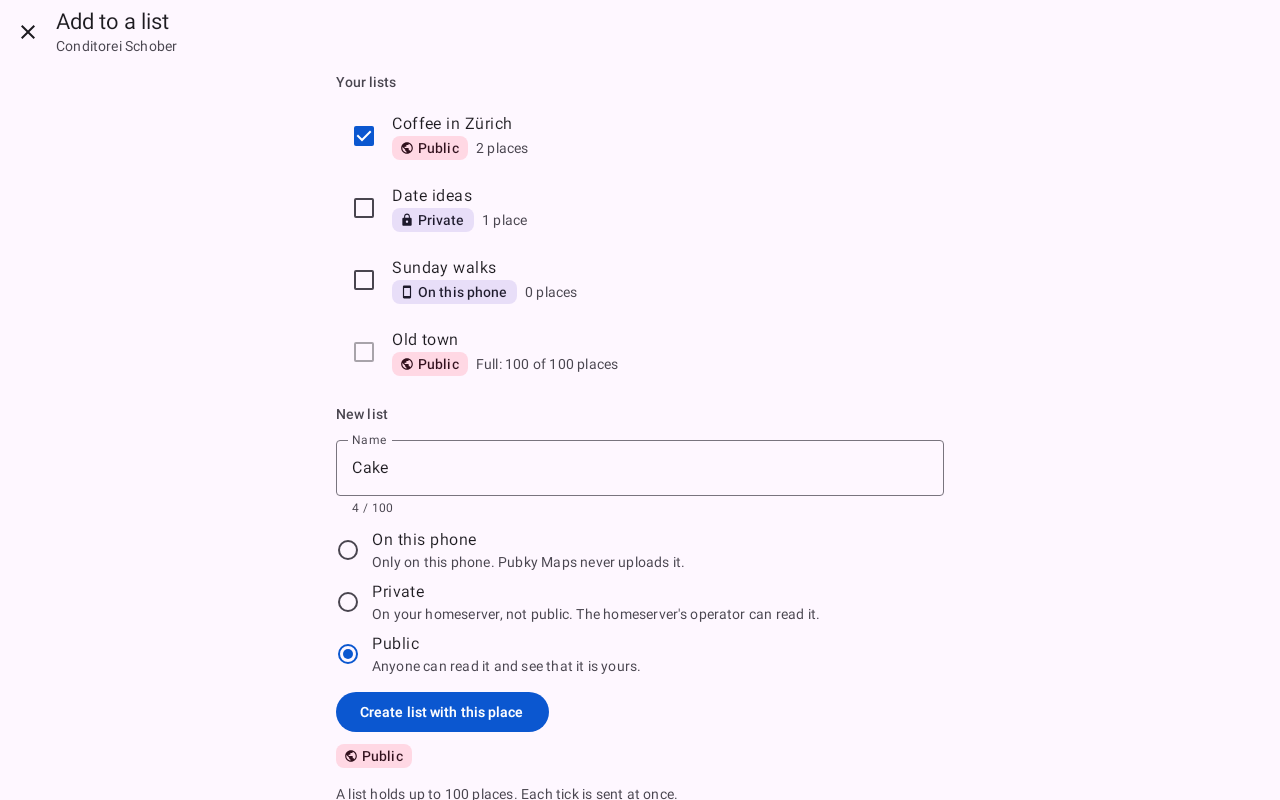
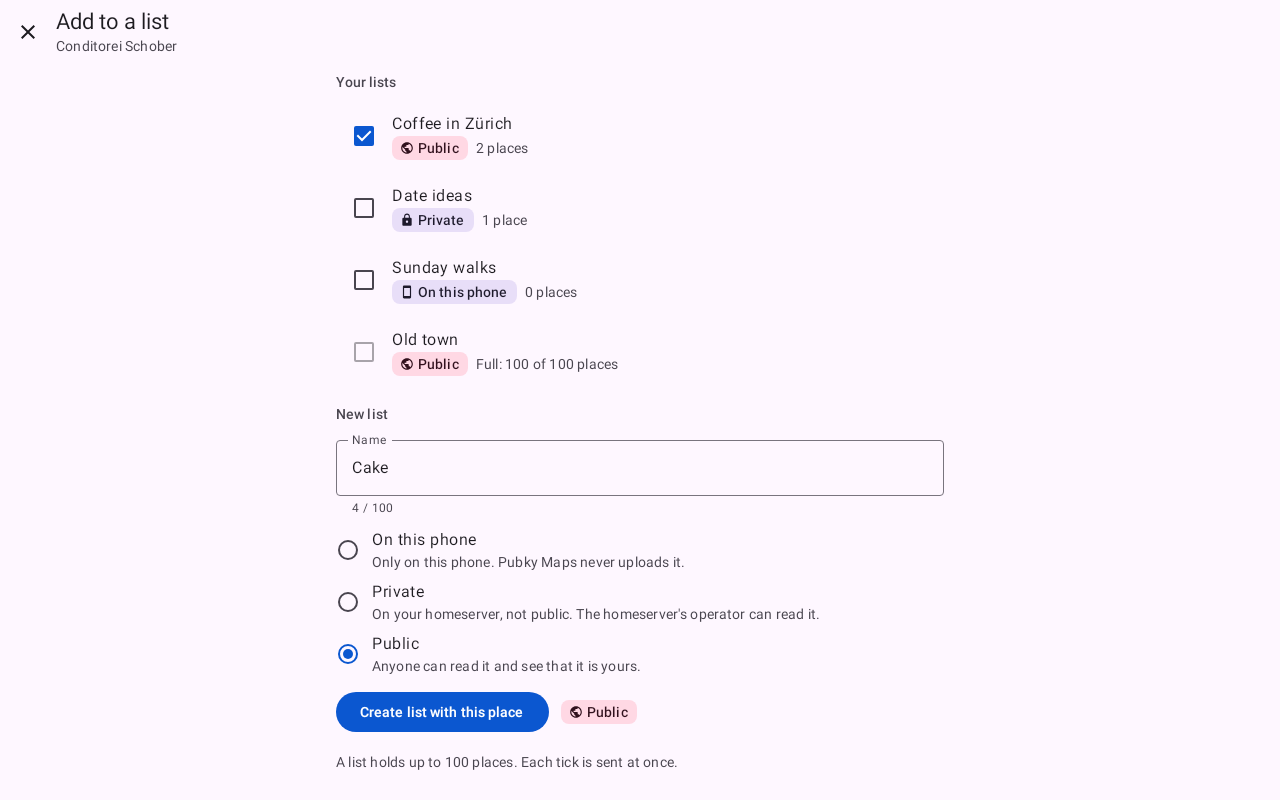
Saved places show their name, not an OpenStreetMap id (#17)
* fix(saved): show a named place by its name alone; the list's badge beside its button

The Saved page showed "OpenStreetMap node 270803095" or the opening link under
every named place and list entry. A named place now shows its name and where it
is kept only; a place without a name keeps its link in words as its title.

The badge that says where a new list goes stood alone under "Create list with
this place"; it now sits beside the button (under it when large text leaves no
room).

* test(saved): native graphics for the bounds check; a pending place still says so

* test(saved): reference screenshots of the Saved and list pages

Changed region(s): [[0.25, 0.9062, 0.5312, 1.0], [0.4375, 0.875, 0.5, 0.9062]]

diff --git a/androidApp/src/test/kotlin/to/pubky/maps/android/SavedAndListsTest.kt b/androidApp/src/test/kotlin/to/pubky/maps/android/SavedAndListsTest.kt
@@ -1,0 +1,115 @@
+package to.pubky.maps.android
+
+import androidx.compose.ui.test.assertCountEquals
+import androidx.compose.ui.test.hasClickAction
+import androidx.compose.ui.test.hasText
+import androidx.compose.ui.test.junit4.createComposeRule
+import androidx.compose.ui.test.onAllNodesWithText
+import androidx.compose.ui.test.onNodeWithText
+import androidx.compose.ui.test.performClick
+import org.junit.Assert.assertTrue
+import org.junit.Rule
+import org.junit.Test
+import org.junit.runner.RunWith
+import org.robolectric.RobolectricTestRunner
+import org.robolectric.annotation.Config
+import org.robolectric.annotation.GraphicsMode
+import to.pubky.maps.ui.PubkyMapsTheme
+import to.pubky.maps.write.Kept
+import to.pubky.maps.write.ListChoice
+import to.pubky.maps.write.ListPage
+import to.pubky.maps.write.ListPageState
+import to.pubky.maps.write.OwnList
+import to.pubky.maps.write.SavedRow
+import to.pubky.maps.write.SavedScreen
+import to.pubky.maps.write.SavedScreenState
+
+/**
+ * The Saved page names places the way the user knows them (a named place shows no OpenStreetMap id
+ * or link), and the list page shows where a new list goes beside the button that makes it.
+ */
+@RunWith(RobolectricTestRunner::class)
+@Config(qualifiers = "w412dp-h915dp")
+@GraphicsMode(GraphicsMode.Mode.NATIVE)
+class SavedAndListsTest {
+    @get:Rule
+    val compose = createComposeRule()
+
+    private val osm = "https://www.openstreetmap.org/node/270803095"
+    private val lindenhof = "https://maps.app.goo.gl/x1"
+
+    @Test
+    fun aNamedPlaceShowsItsNameWithoutItsLink() {
+        compose.setContent {
+            PubkyMapsTheme(darkTheme = false) {
+                SavedScreen(
+                    state =
+                        SavedScreenState(
+                            places =
+                                listOf(
+                                    SavedRow(osm, "Conditorei Schober", Kept.Private),
+                                    SavedRow(lindenhof, "Lindenhof", Kept.Private, pending = true),
+                                    SavedRow("geo:47.36667,8.55", null, Kept.Phone),
+                                ),
+                            lists =
+                                listOf(
+                                    OwnList(
+                                        "phone:1",
+                                        Kept.Phone,
+                                        "Coffee in Zürich",
+                                        listOf(osm, lindenhof),
+                                        names = mapOf(lindenhof to "Lindenhof"),
+                                    ),
+                                ),
+                            names = mapOf(osm to "Conditorei Schober"),
+                            signedIn = true,
+                        ),
+                    onOpen = {},
+                    onBack = {},
+                )
+            }
+        }
+        compose.onNodeWithText("Conditorei Schober").assertExists()
+        // A place without a name is still told by its link.
+        compose.onNodeWithText("47.36667, 8.55").assertExists()
+        // One not sent yet still says so.
+        compose.onNodeWithText("Not sent yet", substring = true).assertExists()
+        compose.onNodeWithText("Coffee in Zürich").performClick()
+        // The saved row and the list entry both have the name; neither shows the OpenStreetMap id or the link.
+        compose.onAllNodesWithText("Conditorei Schober").assertCountEquals(2)
+        compose.onAllNodesWithText("Lindenhof").assertCountEquals(2)
+        compose.onAllNodesWithText("OpenStreetMap node 270803095").assertCountEquals(0)
+        compose.onAllNodesWithText("maps.app.goo.gl/x1").assertCountEquals(0)
+    }
+
+    @Test
+    fun whereANewListGoesShowsBesideItsButton() {
+        compose.setContent {
+            PubkyMapsTheme(darkTheme = false) {
+                ListPage(
+                    state =
+                        ListPageState(
+                            placeName = "Conditorei Schober",
+                            lists = listOf(ListChoice(OwnList("phone:1", Kept.Phone, "Sunday walks", emptyList()), holds = false)),
+                            newName = "Cake",
+                            newKept = Kept.Public,
+                            keptChoices = listOf(Kept.Phone, Kept.Public),
+                        ),
+                    onToggle = {},
+                    onNewNameChange = {},
+                    onNewKeptChange = {},
+                    onCreate = {},
+                    onClose = {},
+                )
+            }
+        }
+        val button = compose.onNode(hasText("Create list with this place") and hasClickAction()).fetchSemanticsNode().boundsInRoot
+        // "Public" is also the radio button's label; the badge is the one on the button's line, after it.
+        val beside =
+            compose.onAllNodesWithText("Public", useUnmergedTree = true).fetchSemanticsNodes().any { node ->
+                val badge = node.boundsInRoot
+                badge.left >= button.right && badge.top >= button.top && badge.bottom <= button.bottom
+            }
+        assertTrue("the Public badge is not beside Create list with this place ($button)", beside)
+    }
+}

diff --git a/shared/src/commonMain/kotlin/to/pubky/maps/write/SavedScreen.kt b/shared/src/commonMain/kotlin/to/pubky/maps/write/SavedScreen.kt
@@ -117,16 +117,6 @@ fun SavedScreen(
                             val name = list.names[place] ?: state.names[place]
                             ListItem(
                                 headlineContent = { Text(name ?: placeText(place), maxLines = 1, overflow = TextOverflow.Ellipsis) },
-                                supportingContent =
-                                    name?.let {
-                                        {
-                                            Text(
-                                                placeText(place),
-                                                maxLines = 1,
-                                                overflow = TextOverflow.Ellipsis,
-                                            )
-                                        }
-                                    },
                                 modifier = Modifier.padding(start = 40.dp).clickable { onOpen(place) },
                             )
                         }
@@ -152,17 +142,7 @@ private fun PlaceRow(
         supportingContent = {
             Row(horizontalArrangement = Arrangement.spacedBy(8.dp), verticalAlignment = Alignment.CenterVertically) {
                 KeptBadge(row.kept)
-                Text(
-                    if (row.pending) {
-                        "Not sent yet"
-                    } else if (row.name != null) {
-                        placeText(row.place)
-                    } else {
-                        ""
-                    },
-                    maxLines = 1,
-                    overflow = TextOverflow.Ellipsis,
-                )
+                if (row.pending) Text("Not sent yet", maxLines = 1, overflow = TextOverflow.Ellipsis)
             }
         },
         leadingContent = { Icon(WriteIcons.Bookmark, contentDescription = null, tint = MaterialTheme.colorScheme.primary) },
@@ -190,7 +170,11 @@ private fun Hint(text: String) {
     )
 }
 
-/** A place's link in words, for one whose name is not known: "OpenStreetMap node 270803095", "47.37687, 8.54169". */
+/**
+ * A place's link in words, shown only for one whose name is not known: "OpenStreetMap node 270803095",
+ * "47.37687, 8.54169". A named place shows its name alone, as map apps' saved lists do: the link is
+ * the app's reference, not something the user reads.
+ */
 internal fun placeText(place: String): String {
     val osm = Regex("^https://www\\.openstreetmap\\.org/(node|way|relation)/(\\d+)$").matchEntire(place)
     if (osm != null) return "OpenStreetMap ${osm.groupValues[1]} ${osm.groupValues[2]}"

diff --git a/shared/src/commonMain/kotlin/to/pubky/maps/write/ListPage.kt b/shared/src/commonMain/kotlin/to/pubky/maps/write/ListPage.kt
@@ -2,6 +2,8 @@ package to.pubky.maps.write
 
 import androidx.compose.foundation.layout.Arrangement
 import androidx.compose.foundation.layout.Column
+import androidx.compose.foundation.layout.ExperimentalLayoutApi
+import androidx.compose.foundation.layout.FlowRow
 import androidx.compose.foundation.layout.Row
 import androidx.compose.foundation.layout.fillMaxWidth
 import androidx.compose.foundation.layout.padding
@@ -54,6 +56,7 @@ data class ListPageState(
  * Add a place to one of the user's lists, or take it out (each tick is sent at once), or make a new
  * list with the place in it. Where each list is kept is shown beside it; a full list says so.
  */
+@OptIn(ExperimentalLayoutApi::class)
 @Composable
 fun ListPage(
     state: ListPageState,
@@ -114,12 +117,19 @@ fun ListPage(
                     }
                 }
             }
-            Button(
-                onClick = onCreate,
-                enabled = state.newName.isNotBlank() && state.newName.length <= LIST_NAME_MAX,
-            ) { Text("Create list with this place") }
-            // Where the list goes, once more beside the button that sends it.
-            KeptBadge(state.newKept)
+            // Where the list goes, once more beside the button that sends it (under it when large text
+            // leaves no room beside it).
+            FlowRow(
+                horizontalArrangement = Arrangement.spacedBy(12.dp),
+                verticalArrangement = Arrangement.spacedBy(8.dp),
+                itemVerticalAlignment = Alignment.CenterVertically,
+            ) {
+                Button(
+                    onClick = onCreate,
+                    enabled = state.newName.isNotBlank() && state.newName.length <= LIST_NAME_MAX,
+                ) { Text("Create list with this place") }
+                KeptBadge(state.newKept)
+            }
         }
         Text(
             "A list holds up to ${OwnList.MAX_LIST_ITEMS} places. Each tick is sent at once.",
